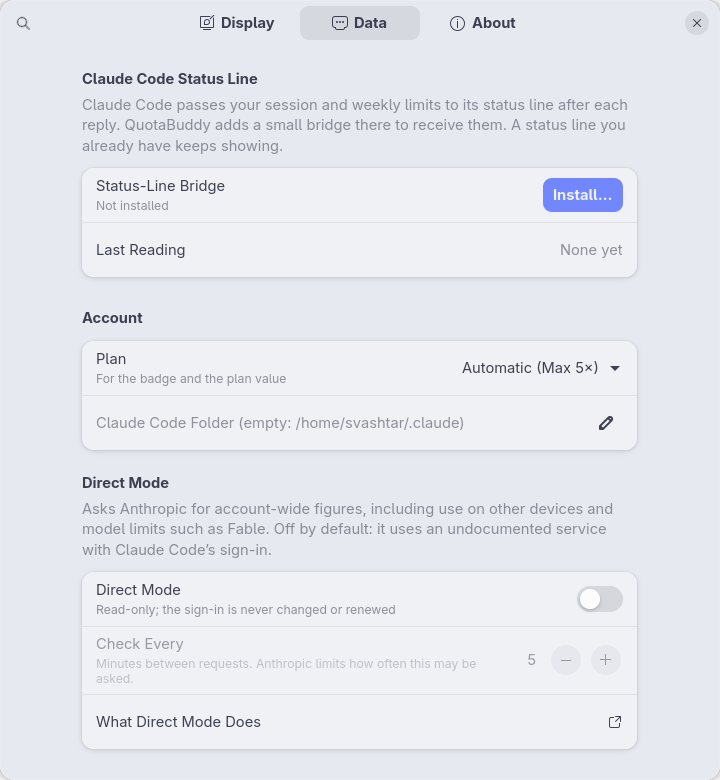
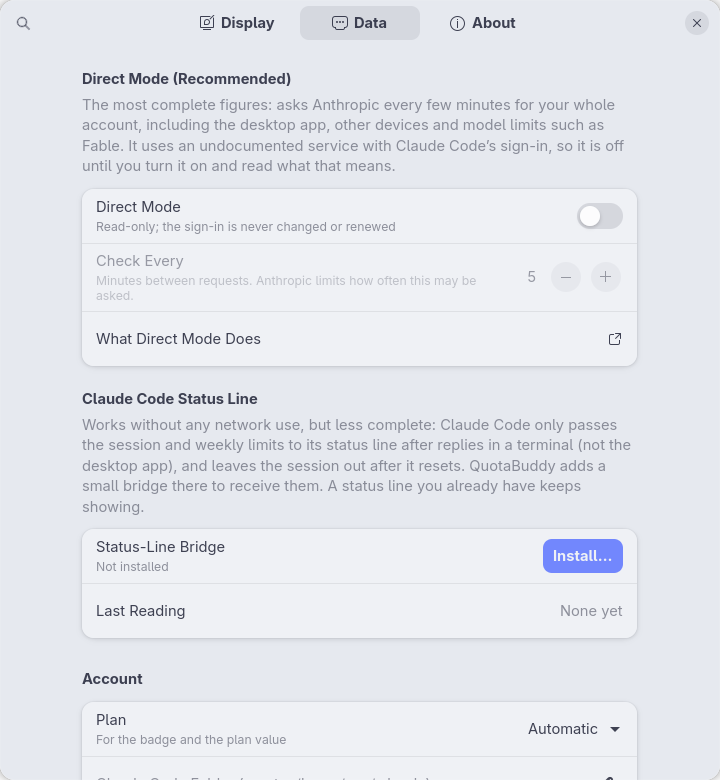
Refresh the Data page screenshot; note the GitHub repository

diff --git a/AGENTS.md b/AGENTS.md
@@ -3,7 +3,7 @@
 GNOME Shell 51+ extension (`quotabuddy@svashta.com`) that shows Claude's usage limits (5-hour
 session, week, model weeks) as rings in a top-bar pill, with a dropdown of pace, activity, cost
 and projects. Plain ESM GJS, no build step, no npm dependencies.
-GitHub: `Svashtar/quotabuddy-gnome` (not created yet).
+GitHub: `Svashtar/quotabuddy-gnome`.
 
 - Design, data sources and roadmap: [PLAN.md](PLAN.md)
 - Module map, processes, lifecycle: [docs/architecture.md](docs/architecture.md)

diff --git a/README.md b/README.md
@@ -41,7 +41,7 @@ Claude's Pro and Max plans come with a rolling **5-hour session** limit and a **
 ## Screenshots
 
 <p align="center">
-  <img src="docs/screenshots/prefs-data.png" alt="Settings, Data page: status-line bridge, plan and direct mode" width="400">
+  <img src="docs/screenshots/prefs-data.png" alt="Settings, Data page: direct mode, status-line bridge and plan" width="400">
 </p>
 
 ## Requirements
